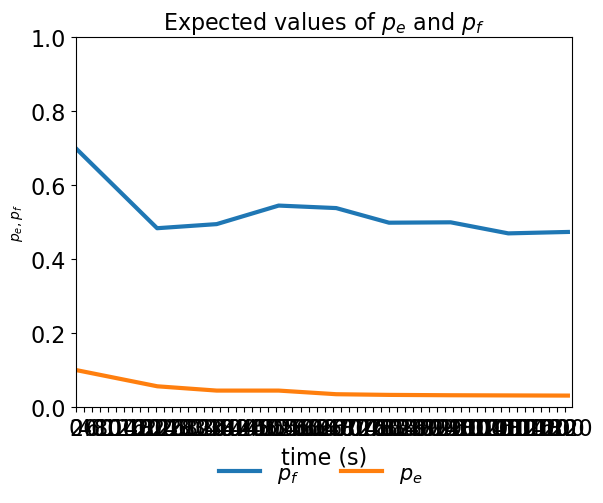
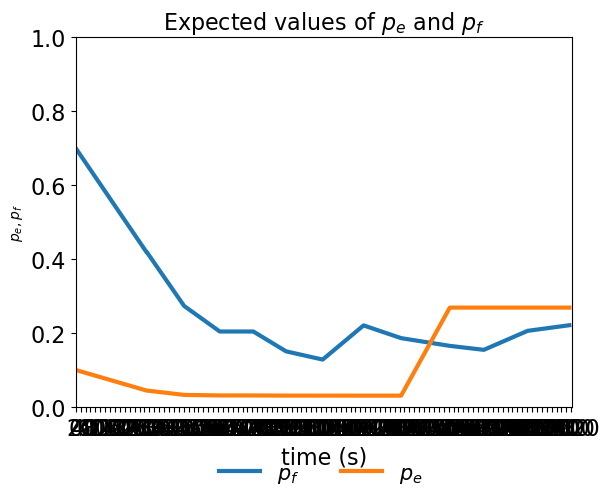
june16

diff --git a/main.py b/main.py
@@ -8,7 +8,7 @@ import measure
 
 
 human_speed = 1
-pattern_number = 4
+pattern_number = 2
 
 
 # pattern = [
@@ -81,7 +81,7 @@ team_server.start()
 
 
 
-measure = measure.Measure(directory='14391', case_name='task4.pickle')
+measure = measure.Measure(directory='15580', case_name='task4.pickle')
 print('phase1')
 human = human_v2.Human(task=task, team_server=team_server, measure=measure)
 # human.daemon = True
